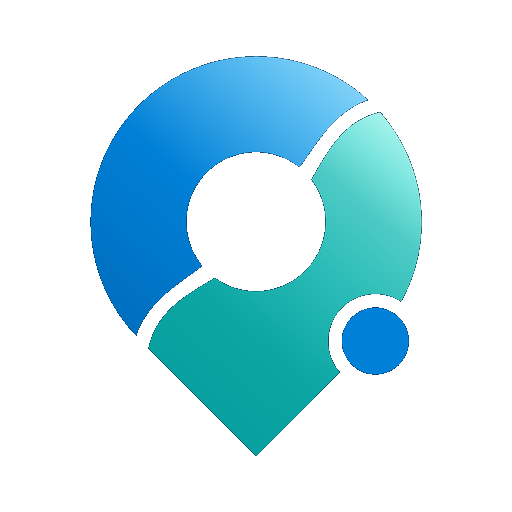
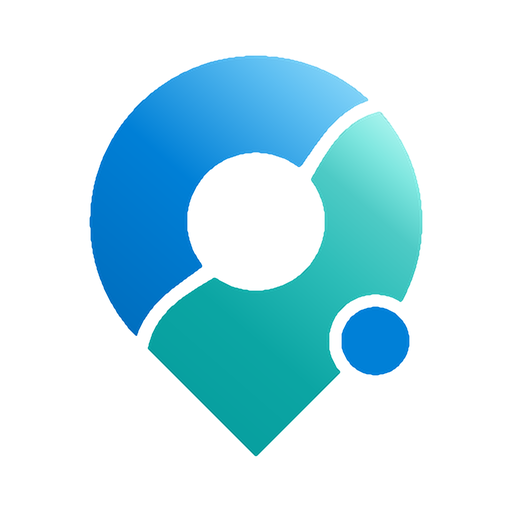
Icones PWA Est : contours lisses + cache sw v68

diff --git a/sw.js b/sw.js
@@ -27,7 +27,7 @@ const CACHE_PREFIX = 'trouve-clinique-est-';
 // v65-seo-meta (4 septembre 2026) : lang fr-CA, noindex de /monteregie/, OG 1200×630,
 // meta Search Console retirée des cartes (conservée sur l’accueil).
 // v67-icones-blanc (8 septembre 2026) : icônes d’installation fond blanc, depuis le pin 512.
-const CACHE = CACHE_PREFIX + 'v67-icones-blanc';
+const CACHE = CACHE_PREFIX + 'v68-icones-polies';
 const ANCIEN_PREFIX = 'ptem-2027-';
 
 /* Portée légitime de cette PWA. Toute autre portée (en pratique « / ») vient d'un
